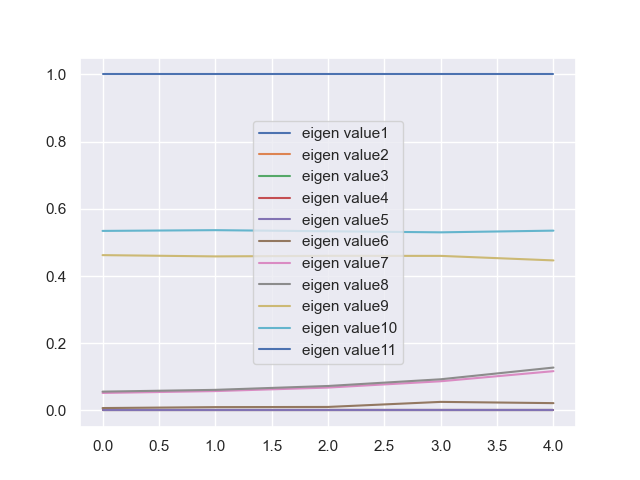
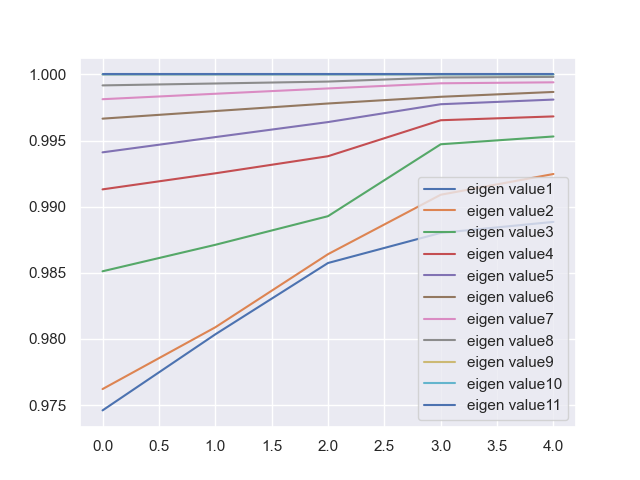
prioritize P
organize all my previous versions

diff --git a/code/test_ultimate.py b/code/test_ultimate.py
@@ -12,7 +12,7 @@ Notes:
 """
 
 # import tSNE_min_k_1 as ts
-import  tSNE_poly as ts
+import  tSNE_ultimate as ts
 from sklearn import datasets
 import pandas as pd
 import matplotlib.pyplot as plt
@@ -48,16 +48,15 @@ PERPLEXITY = 25
 LEARNING_RATE = [1e2, 1e-1]  # change with NUM_SAMPLE
 EXAGGERATE_STAGE = 20  # change with NUM_SAMPLE
 LAST_STAGE = 5  # change with NUM_SAMPLE
-GK = 0
-BETA = 1e2  # change with delta Y
-BETA_2 = 1e0
+GK = 1
+BETA = 1e0  # change with delta Y
+BETA_2 = 1e-2
 NUM_EIGEN = 10
 RDSEED = 1
-SIGMA = 0
+SIGMA = 1e0
 MINK = 0
-GK = 1
-POLY = 2
-C = 2
+POLY = 0
+C = 0
 # data = datasets.load_digits()
 # NUM_SAMPLE = 800
 # PERPLEXITY = 30
@@ -72,16 +71,43 @@ C = 2
 print(data['data'].shape)
 X = data['data'][:NUM_SAMPLE]
 y = data['target'][:NUM_SAMPLE]
-
+from scipy.linalg import eigh
+import numpy as np
 # Obtain matrix of joint probabilities p_ij
-P, _ = ts.p_joint(X, PERPLEXITY)
-print(_)
+num_eigen = NUM_EIGEN # 这里采取最优的组数（比如COIL20有20组）
+perpelxity_range = np.arange(20,40) # 经验区间
+eigenRatio_list = list()
+P_list = list()
+for perplexity in perpelxity_range:
+    P, _ = ts.p_joint(X, perplexity)
+    D_ = np.diag(np.power(P.sum(axis = 1),-0.5))
+    n = P.shape[0]
+    w, v = eigh(np.eye(n) - D_ @ P @ D_)
+    eigenRatio = np.diff(w)/w[1:]
+    eigenRatio_list.append(eigenRatio)
+    P_list.append(P)
+
+    show = 5
+    plt.plot(np.arange(1,num_eigen + show+1),eigenRatio[:num_eigen + show])
+    plt.title(f'Eigen Ratio @ Perplexity:{perplexity}')
+    plt.show()
+
+eigenRatio_df = pd.DataFrame(eigenRatio_list)
+index = np.argmax(eigenRatio_df.iloc[:,num_eigen])
+opt_perplexity = perpelxity_range[index]
+print(f'The Optimal Perplexity is {opt_perplexity}')
+P = P_list[index]
+
+plt.plot(perpelxity_range, eigenRatio_df.iloc[:,num_eigen])
+plt.title(f'Optimal Perplexity is {opt_perplexity}')
+plt.show()
+
+
 # Fit SNE or t-SNE
 Y, lam_list, sigmas_list = ts.estimate_sne(X, y, P,
                      num_iters=NUM_ITERS,
                      q_fn= ts.q_tsne if TSNE else ts.q_joint,
-                     # grad = ts.gk_grad if GK else ts.poly_grad,
-                     grad=ts.poly_grad,
+                     grad = ts.gk_grad if GK else ts.poly_grad,
                      learning_rate1=LEARNING_RATE[0],
                      learning_rate2=LEARNING_RATE[1],
                      momentum=MOMENTUM,

diff --git a/code/test_4.py b/code/test_4.py
@@ -23,7 +23,7 @@ import scipy.io
 
 SEED = 1  # Random seed
 MOMENTUM = 0.8
-NUM_ITERS = 1000
+NUM_ITERS = 100
 TSNE = True
 TSNE_grad = True
 EXA_RATIO = 4
@@ -40,20 +40,20 @@ NUM_PLOTS = 3
 # GK = 1
 # BETA = 1e-2  # change with delta Y
 
-# data = datasets.load_digits()
+data = datasets.load_digits()
 
-data = scipy.io.loadmat('/Users/haper/Library/Mobile Documents/com~apple~CloudDocs/Desktop/ Research-ML/laplacian_t-SNE/data/COIL100.mat')
-NUM_SAMPLE = 1024
+# data = scipy.io.loadmat('/Users/haper/Library/Mobile Documents/com~apple~CloudDocs/Desktop/ Research-ML/laplacian_t-SNE/data/COIL100.mat')
+NUM_SAMPLE = 400
 PERPLEXITY = 25
 LEARNING_RATE = [1e2, 1e-1]  # change with NUM_SAMPLE
-EXAGGERATE_STAGE = 100  # change with NUM_SAMPLE
-LAST_STAGE = 50  # change with NUM_SAMPLE
+EXAGGERATE_STAGE = 20  # change with NUM_SAMPLE
+LAST_STAGE = 5  # change with NUM_SAMPLE
 GK = 1
 BETA = 1e0  # change with delta Y
-BETA_2 = 0.5e-2
-NUM_EIGEN = 15
+BETA_2 = 1e-2
+NUM_EIGEN = 10
 RDSEED = 1
-SIGMA = 1.5e0
+SIGMA = 1e0
 MINK = 0
 # data = datasets.load_digits()
 # NUM_SAMPLE = 800
@@ -66,10 +66,12 @@ MINK = 0
 # NUM_EIGEN = 12
 # RDSEED = 1
 
-print(data['X'].shape)
-X = data['X'].T[:NUM_SAMPLE]
-y = data['Label'].flatten()[:NUM_SAMPLE]
-
+# print(data['X'].shape)
+# X = data['X'].T[:NUM_SAMPLE]
+# y = data['Label'].flatten()[:NUM_SAMPLE]
+print(data['data'].shape)
+X = data['data'][:NUM_SAMPLE]
+y = data['target'][:NUM_SAMPLE]
 # Obtain matrix of joint probabilities p_ij
 P, _ = ts.p_joint(X, PERPLEXITY)
 print(_)

diff --git a/code/tSNE_ultimate.py b/code/tSNE_ultimate.py
@@ -267,7 +267,7 @@ def poly_grad(Y, num_eigen,sigmas, UPDATE_SIGMA, min_k, poly,const):
     grad_Y3 = 2 * poly * (grad_LK1 * (np.power((Y @ Y.T + const), (poly - 1)))) @ Y
     grad_sigma = 0
     lam_list.append(lam)
-    print(' ------------trance ---------------')
+    print(' ------------cost ---------------')
     print(np.trace(eig_V.T @ (np.identity(n) - power_diag(D, -0.5) @ Kval @ power_diag(D, -0.5)) @ eig_V))
     return  grad_Y, grad_Y3, grad_sigma
 
